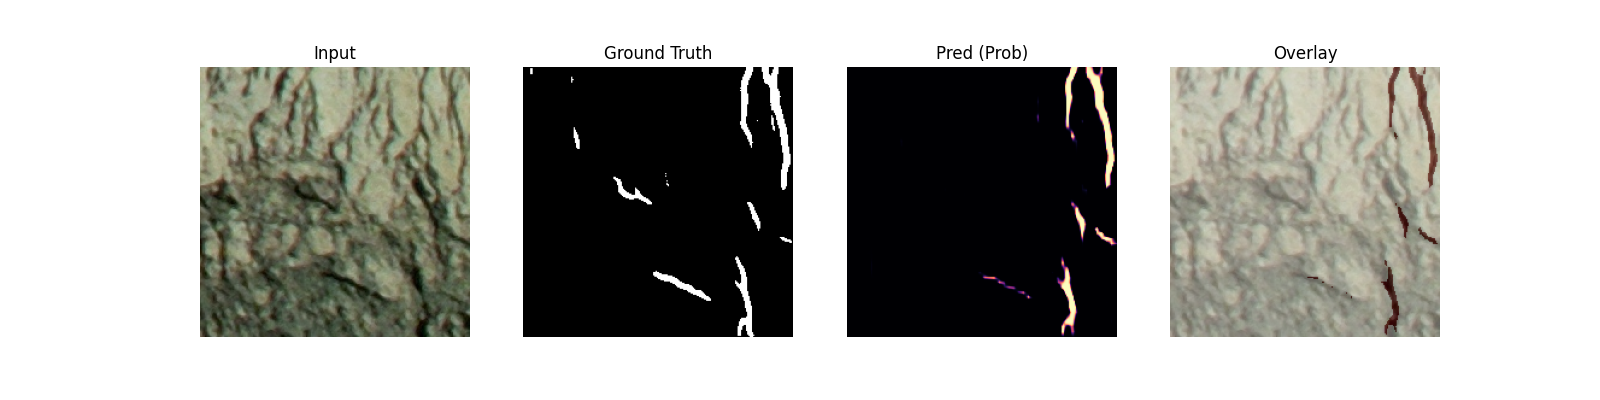
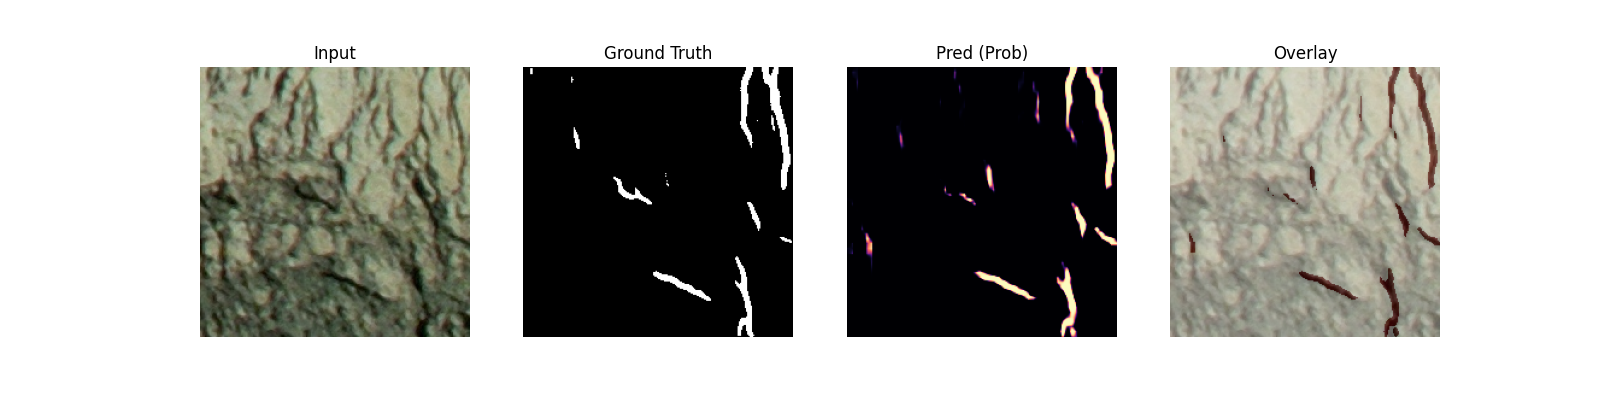
add: load checkpoint

diff --git a/test.py b/test.py
@@ -1,14 +1,14 @@
 import torch
-import torch.nn as nn
-import torchvision.transforms as T
-from torch.utils.data import DataLoader
-import segmentation_models_pytorch as smp
-from pathlib import Path
-import matplotlib.pyplot as plt
 import pandas as pd
 import numpy as np
+from pathlib import Path
+from torch.utils.data import DataLoader
+import segmentation_models_pytorch as smp
+import torch.nn as nn
+import torchvision.transforms as T
+import matplotlib.pyplot as plt
 from dataset_class import FaultDataset
-from tqdm import tqdm
+from train import combined_loss, calc_metrics   # pakai fungsi dari train.py
 
 # ===============================
 # Config
@@ -22,27 +22,24 @@ BATCH_SIZE = 8
 device = torch.device("cuda" if torch.cuda.is_available() else "cpu")
 
 # ===============================
-# Load CSV
+# Load CSV (pakai validation untuk testing, atau ganti test.csv)
 # ===============================
-val_df = pd.read_csv("result_parsing/validation.csv")
+df = pd.read_csv("result_parsing/validation.csv")
 
 def fix_path(path_str):
     filename = path_str.split("\\")[-1]
     return DATASET_DIR / "patched_images" / filename
 
-val_df["image"] = val_df["Original Image Patch"].apply(fix_path)
-val_df["mask"]  = val_df["Binary Mask Image Patch"].apply(fix_path)
+df["image"] = df["Original Image Patch"].apply(fix_path)
+df["mask"]  = df["Binary Mask Image Patch"].apply(fix_path)
 
-# ===============================
-# Transform
-# ===============================
-val_transform = T.Compose([
+transform = T.Compose([
     T.Resize((512, 512)),
     T.ToTensor(),
 ])
 
-val_dataset = FaultDataset(val_df, transform=val_transform)
-val_loader = DataLoader(val_dataset, batch_size=BATCH_SIZE)
+dataset = FaultDataset(df, transform=transform)
+loader = DataLoader(dataset, batch_size=BATCH_SIZE, shuffle=False)
 
 # ===============================
 # Model
@@ -51,72 +48,72 @@ model = smp.DeepLabV3Plus(
     encoder_name="resnet101",
     in_channels=3,
     classes=1,
-    encoder_weights=None  # best model sudah pretrained
+    encoder_weights=None
 )
-model.load_state_dict(torch.load(MODEL_PATH, map_location=device))
 model.to(device)
+
+# Load trained weights
+checkpoint = torch.load(MODEL_PATH, map_location=device)
+if isinstance(checkpoint, dict) and "model" in checkpoint:
+    print(f"🔄 Loading FULL checkpoint from {MODEL_PATH}")
+    model.load_state_dict(checkpoint["model"])
+else:
+    print(f"🔄 Loading weights only from {MODEL_PATH}")
+    model.load_state_dict(checkpoint)
+
 model.eval()
 
 # ===============================
-# Metrics (manual IoU & Dice)
+# Evaluation
 # ===============================
-def calc_metrics(pred, target, threshold=0.5):
-    if target.dim() == 3:
-        target = target.unsqueeze(1)
+bce = nn.BCEWithLogitsLoss()
+dice = smp.losses.DiceLoss(mode="binary")
 
-    prob = torch.sigmoid(pred)
-    pred_bin = (prob > threshold).float()
-
-    pred_flat = pred_bin.view(-1)
-    target_flat = target.view(-1)
-
-    intersection = (pred_flat * target_flat).sum()
-    union = pred_flat.sum() + target_flat.sum() - intersection
-    dice = (2.0 * intersection) / (pred_flat.sum() + target_flat.sum() + 1e-7)
-    iou = intersection / (union + 1e-7)
-
-    return float(iou), float(dice)
-
-# ===============================
-# Visualization
-# ===============================
-def visualize_prediction(img, mask, pred, idx):
-    img_np  = img.permute(1, 2, 0).cpu().numpy()
-    mask_np = mask.squeeze().cpu().numpy()
-    pred_np = torch.sigmoid(pred).squeeze().cpu().numpy()
-    pred_bin = (pred_np > 0.5).astype(np.uint8)
-
-    fig, axs = plt.subplots(1, 4, figsize=(16, 4))
-    axs[0].imshow(img_np); axs[0].set_title("Input")
-    axs[1].imshow(mask_np, cmap="gray"); axs[1].set_title("Ground Truth")
-    axs[2].imshow(pred_np, cmap="magma"); axs[2].set_title("Pred (Prob)")
-    axs[3].imshow(img_np); axs[3].imshow(pred_bin, cmap="Reds", alpha=0.4); axs[3].set_title("Overlay")
-    for ax in axs: ax.axis("off")
-
-    save_path = SAMPLES_DIR / f"sample_{idx}.png"
-    plt.savefig(save_path)
-    plt.close()
-
-# ===============================
-# Testing
-# ===============================
-total_iou, total_dice, count = 0, 0, 0
+total_loss, total_iou, total_dice = 0, 0, 0
+n_batches = len(loader)
 
 with torch.no_grad():
-    for idx, (imgs, masks) in enumerate(tqdm(val_loader, desc="Testing")):
+    for i, (imgs, masks) in enumerate(loader):
         imgs, masks = imgs.to(device), masks.to(device)
         preds = model(imgs)
 
-        iou, dice = calc_metrics(preds, masks)
+        loss = combined_loss(preds, masks)
+        total_loss += loss.item()
+
+        iou, dice_s = calc_metrics(preds, masks)
         total_iou += iou
-        total_dice += dice
-        count += 1
+        total_dice += dice_s
 
-        # simpan 2 sample pertama tiap batch
-        for i in range(min(2, imgs.size(0))):
-            visualize_prediction(imgs[i].cpu(), masks[i].cpu(), preds[i].cpu(), f"{idx}_{i}")
+        # Save some sample predictions
+        if i < 5:  # simpan 5 batch pertama
+            for j in range(len(imgs)):
+                img = imgs[j].cpu().permute(1,2,0).numpy()
+                mask = masks[j].cpu().squeeze().numpy()
+                pred = torch.sigmoid(preds[j]).cpu().squeeze().numpy()
+                pred_bin = (pred > 0.5).astype(np.uint8)
 
-avg_iou = total_iou / count
-avg_dice = total_dice / count
+                fig, axes = plt.subplots(1, 3, figsize=(12,4))
+                axes[0].imshow(img)
+                axes[0].set_title("Image")
+                axes[1].imshow(mask, cmap="gray")
+                axes[1].set_title("Mask (GT)")
+                axes[2].imshow(pred_bin, cmap="gray")
+                axes[2].set_title("Prediction")
+                for ax in axes: ax.axis("off")
 
-print(f"✅ Test done - IoU: {avg_iou:.4f} | Dice: {avg_dice:.4f}")
+                save_path = SAMPLES_DIR / f"sample_{i}_{j}.png"
+                plt.savefig(save_path)
+                plt.close()
+
+# ===============================
+# Print Results
+# ===============================
+avg_loss = total_loss / n_batches
+avg_iou  = total_iou / n_batches
+avg_dice = total_dice / n_batches
+
+print(f"\n📊 Test Results")
+print(f"Loss: {avg_loss:.4f}")
+print(f"IoU : {avg_iou:.4f}")
+print(f"Dice: {avg_dice:.4f}")
+print(f"✅ Saved some prediction samples to {SAMPLES_DIR}")

diff --git a/train.py b/train.py
@@ -3,7 +3,6 @@ from pathlib import Path
 from torch.utils.data import DataLoader
 import torch
 import segmentation_models_pytorch as smp
-from segmentation_models_pytorch.utils import metrics as smp_metrics
 from dataset_class import FaultDataset
 from tqdm import tqdm
 import torchvision.transforms as T
@@ -27,6 +26,9 @@ LOG_PATH = Path("training_log.csv")
 CHECKPOINT_DIR.mkdir(exist_ok=True)
 SAMPLES_DIR.mkdir(exist_ok=True)
 MODEL_DIR.mkdir(exist_ok=True)
+
+# path ke checkpoint (ubah sesuai file kamu)
+RESUME_FROM = CHECKPOINT_DIR / "deeplabv3plus_resnet101_epoch40.pth"
 
 # ===============================
 # Load CSV
@@ -94,7 +96,6 @@ def combined_loss(pred, target):
 optimizer = torch.optim.Adam(model.parameters(), lr=LR)
 scaler = torch.amp.GradScaler("cuda")
 
-# Scheduler
 scheduler = torch.optim.lr_scheduler.ReduceLROnPlateau(
     optimizer, factor=0.5, patience=3
 )
@@ -102,18 +103,13 @@ scheduler = torch.optim.lr_scheduler.ReduceLROnPlateau(
 # ===============================
 # Metrics
 # ===============================
-# ===============================
-# Metrics (manual IoU & Dice)
-# ===============================
 def calc_metrics(pred, target, threshold=0.5):
-    # pastikan target ada channel
     if target.dim() == 3:
         target = target.unsqueeze(1)
 
     prob = torch.sigmoid(pred)
     pred_bin = (prob > threshold).float()
 
-    # flatten
     pred_flat = pred_bin.view(-1)
     target_flat = target.view(-1)
 
@@ -124,40 +120,44 @@ def calc_metrics(pred, target, threshold=0.5):
 
     return float(iou), float(dice)
 
-
 # ===============================
-# Utils
+# Resume Checkpoint
 # ===============================
-def visualize_prediction(img, mask, pred, epoch, idx):
-    img_np  = img.permute(1, 2, 0).cpu().numpy()
-    mask_np = mask.squeeze().cpu().numpy()
-    pred_np = torch.sigmoid(pred).squeeze().cpu().numpy()
-    pred_bin = (pred_np > 0.5).astype(np.uint8)
+start_epoch = 1
+best_val_loss = float("inf")
+no_improve = 0
 
-    fig, axs = plt.subplots(1, 4, figsize=(16, 4))
-    axs[0].imshow(img_np); axs[0].set_title("Input")
-    axs[1].imshow(mask_np, cmap="gray"); axs[1].set_title("Ground Truth")
-    axs[2].imshow(pred_np, cmap="magma"); axs[2].set_title("Pred (Prob)")
-    axs[3].imshow(img_np); axs[3].imshow(pred_bin, cmap="Reds", alpha=0.4); axs[3].set_title("Overlay")
-    for ax in axs: ax.axis("off")
+if RESUME_FROM.exists():
+    checkpoint = torch.load(RESUME_FROM, map_location=device)
 
-    save_path = SAMPLES_DIR / f"epoch{epoch}_sample{idx}.png"
-    plt.savefig(save_path)
-    plt.close()
+    if isinstance(checkpoint, dict) and "model" in checkpoint:
+        # ✅ format baru
+        print(f"🔄 Loading FULL checkpoint from {RESUME_FROM}")
+        model.load_state_dict(checkpoint["model"])
+        optimizer.load_state_dict(checkpoint["optimizer"])
+        scaler.load_state_dict(checkpoint["scaler"])
+        scheduler.load_state_dict(checkpoint["scheduler"])
+        start_epoch = checkpoint["epoch"] + 1
+        best_val_loss = checkpoint["best_val_loss"]
+    else:
+        # ✅ format lama (hanya bobot model)
+        print(f"🔄 Loading model weights only from {RESUME_FROM}")
+        model.load_state_dict(checkpoint)
+        start_epoch = 21   # <<-- karena lu udah stop di epoch 20
+        best_val_loss = float("inf")
+else:
+    print("⚡ Training from scratch")
+
 
 # ===============================
 # Training Loop
 # ===============================
-best_val_loss = float("inf")
-no_improve = 0
-
-# log CSV header
 if not LOG_PATH.exists():
     with open(LOG_PATH, "w", newline="") as f:
         writer = csv.writer(f)
         writer.writerow(["epoch", "train_loss", "val_loss", "IoU", "Dice"])
 
-for epoch in range(1, EPOCHS+1):
+for epoch in range(start_epoch, EPOCHS+1):
     # ---- Train ----
     model.train()
     train_loss = 0
@@ -194,7 +194,6 @@ for epoch in range(1, EPOCHS+1):
     avg_val_iou = val_iou / len(val_loader)
     avg_val_dice = val_dice / len(val_loader)
 
-    # Scheduler step
     scheduler.step(avg_val_loss)
 
     print(f"📌 Epoch {epoch}/{EPOCHS} - "
@@ -202,12 +201,11 @@ for epoch in range(1, EPOCHS+1):
           f"Val Loss: {avg_val_loss:.4f} | "
           f"IoU: {avg_val_iou:.4f} | Dice: {avg_val_dice:.4f}")
 
-    # save log
     with open(LOG_PATH, "a", newline="") as f:
         writer = csv.writer(f)
         writer.writerow([epoch, avg_train_loss, avg_val_loss, avg_val_iou, avg_val_dice])
 
-    # ---- Early Stopping & Save Best ----
+    # ---- Early Stopping ----
     if avg_val_loss < best_val_loss:
         best_val_loss = avg_val_loss
         no_improve = 0
@@ -222,20 +220,12 @@ for epoch in range(1, EPOCHS+1):
     # ---- Save checkpoint tiap 5 epoch ----
     if epoch % 5 == 0:
         ckpt_path = CHECKPOINT_DIR / f"deeplabv3plus_resnet101_epoch{epoch}.pth"
-        torch.save(model.state_dict(), ckpt_path)
+        torch.save({
+            "epoch": epoch,
+            "model": model.state_dict(),
+            "optimizer": optimizer.state_dict(),
+            "scaler": scaler.state_dict(),
+            "scheduler": scheduler.state_dict(),
+            "best_val_loss": best_val_loss
+        }, ckpt_path)
         print(f"💾 Checkpoint saved: {ckpt_path}")
-
-    # ---- Visualize tiap 5 epoch ----
-    if epoch % 5 == 0:
-        imgs, masks = next(iter(val_loader))
-        imgs, masks = imgs.to(device), masks.to(device)
-        with torch.no_grad():
-            preds = model(imgs)
-        for i in range(min(2, imgs.size(0))):
-            visualize_prediction(imgs[i], masks[i], preds[i], epoch, i)
-
-# ===============================
-# Save Final Model
-# ===============================
-torch.save(model.state_dict(), MODEL_DIR / "deeplabv3plus_resnet101_final.pth")
-print("✅ Training done, model saved")

diff --git a/model.py b/model.py
@@ -15,17 +15,18 @@ model = smp.DeepLabV3Plus(
     classes=1,
     encoder_weights=None
 )
-model.load_state_dict(torch.load("models/deeplabv3plus_resnet101_final.pth", map_location=device))
+checkpoint = torch.load("checkpoints/deeplabv3plus_resnet101_epoch40.pth", map_location=device)
+model.load_state_dict(checkpoint["model"])  # ✅ ambil hanya state_dict model
 model.to(device)
 model.eval()
 
 # Preprocessing
+# Preprocessing (samakan dengan train/test)
 preprocess = transforms.Compose([
     transforms.Resize((512, 512)),
-    transforms.ToTensor(),
-    transforms.Normalize(mean=[0.485, 0.456, 0.406],
-                         std=[0.229, 0.224, 0.225])
+    transforms.ToTensor()
 ])
+
 
 def clean_mask(mask_np, min_area=50):
     mask_np = (mask_np * 255).astype(np.uint8)

diff --git a/app.py b/app.py
@@ -3,6 +3,7 @@ from model import predict_mask
 from tempfile import NamedTemporaryFile
 import shutil
 import os
+import uuid
 
 app = FastAPI()
 
@@ -16,8 +17,13 @@ async def predict(file: UploadFile = File(...)):
         shutil.copyfileobj(file.file, tmp)
         tmp_path = tmp.name
 
+    # bikin folder unik untuk hasil
+    unique_id = str(uuid.uuid4())
+    save_dir = os.path.join(OUTPUT_DIR, unique_id)
+    os.makedirs(save_dir, exist_ok=True)
+
     # run prediction → dapat mask + overlay
-    mask_path, overlay_path = predict_mask(tmp_path, save_dir=OUTPUT_DIR)
+    mask_path, overlay_path = predict_mask(tmp_path, save_dir=save_dir)
 
     return {
         "message": "Prediction success",
